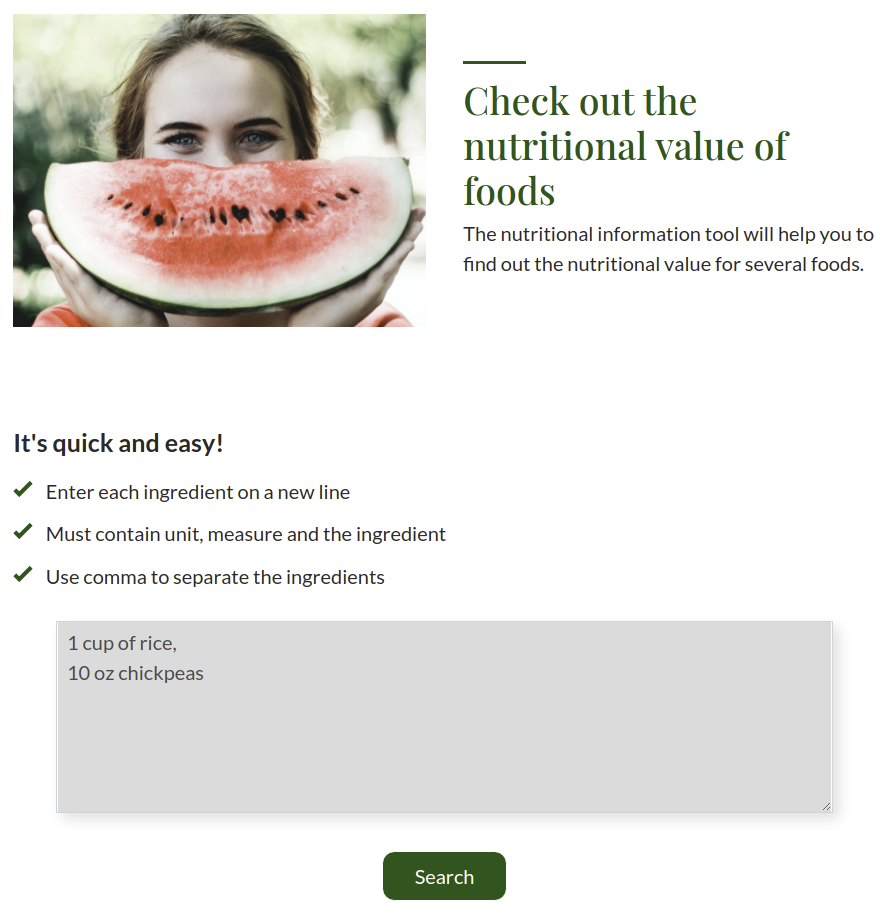
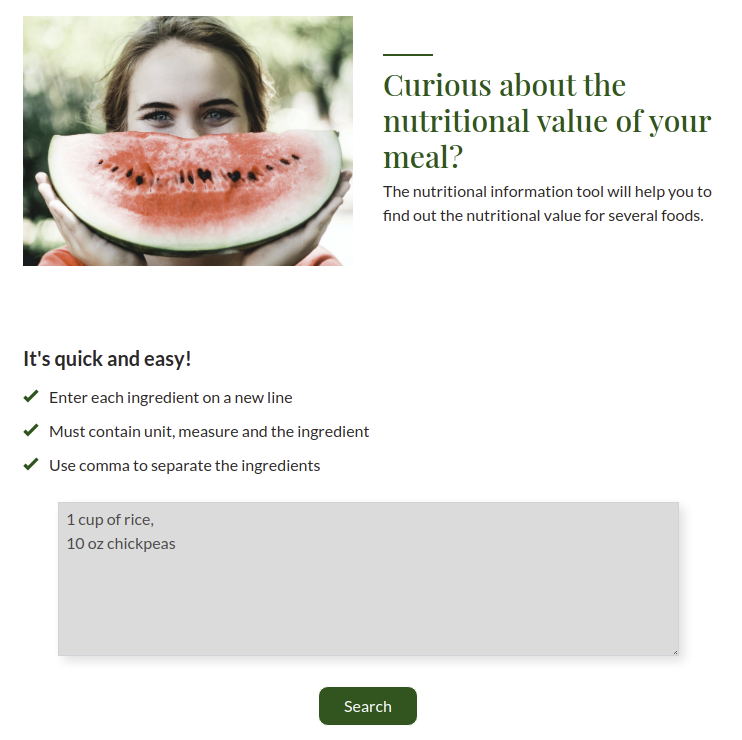
Fix: Clear search results after second search when error msg is displayed

diff --git a/assets/js/main.js b/assets/js/main.js
@@ -77,6 +77,7 @@ function getRecipeAPI() {
             recipeAPIDataSearchBar(data);
         })
         .catch(err => {
+            recipeCards.innerHTML = "";
             errorHandling.innerHTML = `
             <div class="container error-handling">
                 <div class="row">
@@ -94,8 +95,10 @@ function getRecipeAPI() {
 function recipeAPIDataSearchBar(data) {
     if (typeof (data.hits[0].recipe) != undefined) {
 
-        //Line added to clear results once new search is performed.
+        //Clear results once new search is performed.
         recipeCards.innerHTML = "";
+        //Clear error message in case it has been displayed before.
+        errorHandling.innerHTML = "";
 
         for (let i = 0; i < 8; i++) {
             //Print health labels in pills
@@ -124,12 +127,13 @@ function recipeAPIDataSearchBar(data) {
         }
     }
     else {
+        recipeCards.innerHTML = "";
         errorHandling.innerHTML =
             `<div class="container error-handling">
             <div class="row">
                 <div class="col">
                     <i class="fas fa-exclamation-triangle"></i>
-                    <p>Ops something went wrong, please change the search term and try again.</p>
+                    <p>Ops something went wrong, please change the search term or the filters and try again.</p>
                 </div>
             </div>
         </div>`
@@ -279,7 +283,7 @@ searchButtonNutrition.addEventListener("click", () => {
 //Nutritional info API call
 function getNutritionalInfoAPI() {
     let arr = {
-        "ingr": document.querySelector("#nutrition-container__label").value.split(/\n|\r/)
+        "ingr": textAreaNutrition.value.split(/\n|\r/)
     };
     fetch('https://api.edamam.com/api/nutrition-details?app_id=57fbc896&app_key=83257937fbf237c98e94e34056ea7388', {
         method: 'post',

diff --git a/index.html b/index.html
@@ -262,7 +262,7 @@
                         <div class="nutrition-image"></div>
                     </div>
                     <div class="col-12 col-md-6 col-xl-6 col-lg-6">
-                        <h2>Check out the nutritional value of foods</h2>
+                        <h2>Curious about the nutritional value of your meal?</h2>
                         <p>The nutritional information tool will help you to find out the nutritional value for several
                             foods. </p>
                     </div>

diff --git a/README.md b/README.md
@@ -243,24 +243,43 @@ This section has the aim to provide the manual testing of user stories and the d
 As a website user...
 
 - I want to be able to search for a recipe  
-  Goal achieved: User goes to homepage and enter a recipe, e.g. ragu.
+  Goal achieved: User goes to homepage and enter a recipe, e.g. lasagna.
 
-  **Screenshot**
+![User story search](https://github.com/stefcruz/ci_milestone2/blob/master/assets/readme/testing/user-stories/user-story-one-desktop.png)
+
+
 
 - I want to be able to search for a recipe and filter by diet labels  
-  Goal achieved: User goes to homepage and enter a recipe, e.g. ragu, and also has 4 diet labels to filter by: balanced, low fat, low carb, high protein.
+  Goal achieved: User goes to homepage and enter a recipe, e.g. lasagna, and also has 4 diet labels to filter by: balanced, low fat, low carb, high protein.
 
-  **Screenshot**
+Desktop:
+
+![User story search and filter](https://github.com/stefcruz/ci_milestone2/blob/master/assets/readme/testing/user-stories/user-story-two-desktop.png)
+
+Mobile:
+
+![User story search and filter](https://github.com/stefcruz/ci_milestone2/blob/master/assets/readme/testing/user-stories/user-story-two-mobile.png)
+
 
 - I want to be able to search for a recipe based on an ingredient  
   Goal achieved: User goes to homepage and enter an ingredient. The search results will be recipes that contain the given ingredient.
 
-  **Screenshot**
+Desktop:
+
+![User story search and filter](https://github.com/stefcruz/ci_milestone2/blob/master/assets/readme/testing/user-stories/user-story-three-desktop.png)
+
+Mobile:
+
+![User story search and filter](https://github.com/stefcruz/ci_milestone2/blob/master/assets/readme/testing/user-stories/user-story-three-mobile.png)
 
 - I want to be able to search for a recipe based on an ingredient and filter by diet labels
   Goal achieved: User goes to homepage and enter an ingredient e.g. pork, and also has 4 diet labels to filter by: balanced, low fat, low carb, high protein.
 
-  **Screenshot**
+Desktop:
+
+![User story search and filter](https://github.com/stefcruz/ci_milestone2/blob/master/assets/readme/testing/user-stories/user-story-four-desktop.png)
+
+![User story search and filter](https://github.com/stefcruz/ci_milestone2/blob/master/assets/readme/testing/user-stories/user-story-four-mobile.png)
 
 - I want to see recipe ideas without having to search for it
   Goal achieved: User goes to inspiration section and can see recipe ideas without having to search for it.
@@ -295,47 +314,47 @@ The manual test was conducted following the test plan below across different bro
 
 Nav:
 
-- [ ] Make sure links are not broken and are linking to correct page.
+- [x] Make sure links are not broken and are linking to correct page.
 
-- [ ] Scroll down and see the arrow up coming up on the right hand side of the screen.
-- [ ] Click on arrow up to bring to top.
+- [x] Scroll down and see the arrow up coming up on the right hand side of the screen.
+- [x] Click on arrow up to bring to top.
 
 Main section:
 
-- [ ] Search for an ingredient and dish pressing enter.
-- [ ] Search for an ingredient and dish pressing the search button.
-- [ ] Perform search ticking one, two, three and four checkboxes.
-- [ ] Click on clear icon to clear contents of search bar.
-- [ ] Click on link "See Recipe" on recipe card.
+- [x] Search for an ingredient and dish pressing enter.
+- [x] Search for an ingredient and dish pressing the search button.
+- [x] Perform search ticking one, two, three and four checkboxes.
+- [x] Click on clear icon to clear contents of search bar.
+- [x] Click on link "See Recipe" on recipe card.
 
 Inspiration section:
 
-- [ ] Use arrows to navigate through the recipe cards.
-- [ ] Click on link "See Recipe" on recipe card.
+- [x] Use arrows to navigate through the recipe cards.
+- [x] Click on link "See Recipe" on recipe card.
 
 Nutritional value:
 
-- [ ] Enter ingredient list with expected values and perform search pressing enter.
-- [ ] Enter ingredient list with expected values and perform search pressing search button.
-- [ ] Enter ingredient list missing one of the required search term (either missing the unit or measure). Expect to see the error message mentioned above in the [Existing Features](#error-handling-nutritional-value) section.
+- [x] Enter ingredient list with expected values and perform search pressing enter.
+- [x] Enter ingredient list with expected values and perform search pressing search button.
+- [x] Enter ingredient list missing one of the required search term (either missing the unit or measure). Expect to see the error message mentioned above in the [Existing Features](#error-handling-nutritional-value) section.
 
 Footer:
 
-- [ ] Click on nav links in the footer.
+- [x] Click on nav links in the footer.
 
-- [ ] Click on social media links.
+- [x] Click on social media links.
 
 Contact Form:
 
-- [ ] Try to submit the empty form. Expect to see the error message underneath each required field.
-- [ ] Try to submit the form with an invalid email address and verify that a relevant error message appears.
-- [ ] Try to submit the form with all inputs valid. Expect to see success message.
+- [x] Try to submit the empty form. Expect to see the error message underneath each required field.
+- [x] Try to submit the form with an invalid email address and verify that a relevant error message appears.
+- [x] Try to submit the form with all inputs valid. Expect to see success message.
 
 
 
 #### Browser and Device Testing
 
-The website was tested on the browsers and devices as follows:
+The website was tested on the browsers and devices as follows. The website was not tested on a mobile as I do not have access to one.
 
 | Device | Browser           | OS                   | Compatibility |
 | ------ | ----------------- | -------------------- | ------------- |
@@ -350,7 +369,7 @@ The website was tested on the browsers and devices as follows:
 | PC     | Firefox           | Mac                  |               |
 | PC     | Safari            | Mac                  |               |
 | Mobile | Chrome            | Huawei               |               |
-| Mobile | Chrome            | Samsung S8 Android 9 |               |
+| Mobile | Chrome            | Samsung S8 Android 9 | Excellent     |
 | Mobile | Safari            | iPhone X             |               |
 
 
@@ -365,17 +384,17 @@ A few bugs were encountered during the testing, which were addressed accordingly
 
 ##### Main section
 
-- Icon of ticked checkbox looked to thin for Android. Solution was to return to the default icon.
+- Icon of ticked checkbox looked to thin for Android. Solution: return to the default icon.
 
 ![Checkbox mobile](https://github.com/stefcruz/ci_milestone2/blob/master/assets/readme/testing/mobile-ticked-checkbox.jpg)
 
-- Increased clicking area of the clear icon on search bar following [this tutorial](https://ishadeed.com/article/clickable-area/).
-
-
-
-##### Inspiration section
+- Clicking area of the clear icon on search bar too narrow. Solution: increased it following [this tutorial](https://ishadeed.com/article/clickable-area/).
+- Font too small in recipe cards. Solution: Increased font size to 1rem (16px).
+- The API will throw an error if there are no results for the combination of the dish or ingredient + diet label. For example, search for lasagna with diet label low-fat. Understandably enough, there is no low-fat lasagna due to the nature of the dish. Solution: another if statement considering this scenario however it was not implemented this time due to time constraints.
 
 ##### Nutritional value
+
+- Removed event listener to perform search pressing enter. This was required as the text area requires pressing enter to skip line to enter the ingredients, not to call the API.
 
 ##### Contact page
 
